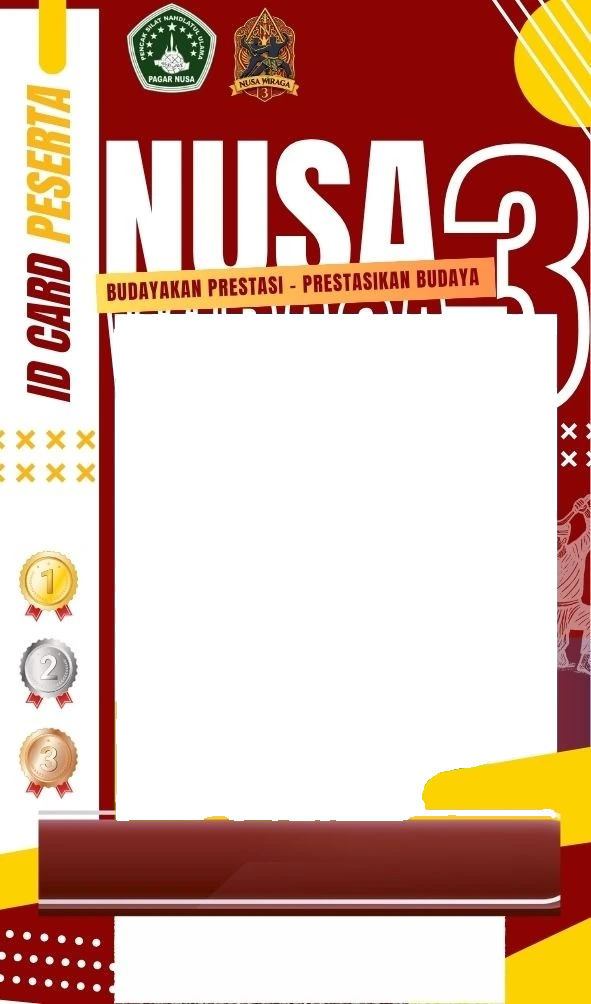
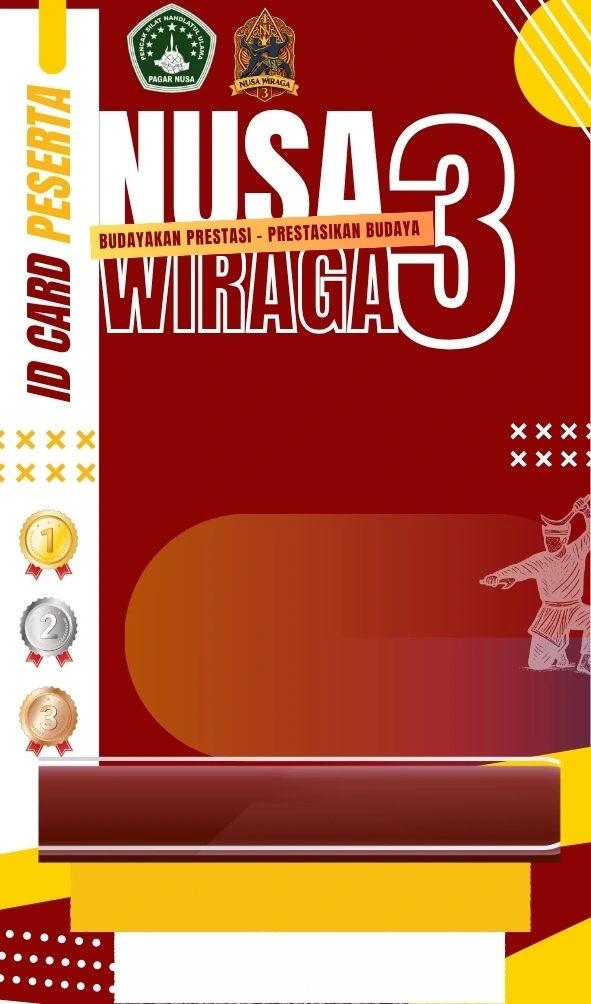
Switch the ID card to the new template with a kelas/kategori line
The committee's new template has no photo frame and adds a yellow
KELAS/KATEGORI bar between NAMA and KONTINGEN. That line shows the
weight class for a Tanding participant and the category for everyone
else (kelasAtauKategori).

The cut-out person now stands straight on the template in the same spot
as before, clipped at the top edge of the NAMA bar so the bottom of the
pas foto stays hidden. Where a photo reaches its own top or side edge,
that edge is faded so it does not leave a hard line on the red
background. latar.webp, the old template's sky scene, is no longer
needed.

The labels in the new template use a condensed face, so the card text
is now set in Oswald, which also fits longer names. Long names wrap to
two lines before they get too small to read.

diff --git a/frontend/src/lib/idCard.js b/frontend/src/lib/idCard.js
@@ -1,13 +1,12 @@
-// ID card peserta, digambar di browser dari template panitia.
+// ID card peserta, digambar di browser admin dari template panitia.
 //
-// Template (public/idcard/template.webp) sudah dibersihkan dari tulisan
-// contoh "NAMA"/"KONTINGEN", dan pemandangan contoh di jendela fotonya dibuat
-// transparan. Urutan lapisannya:
-//   1. latar.webp — pemandangan contoh (langit, awan, bukit) dari template
-//   2. orangnya saja, latar pas fotonya dibuang (lihat hapusLatar.js)
-//   3. template — spanduk kuning kiri-atas dan lengkung kuning kanan-bawah
-//      memang menimpa foto di desain aslinya
-//   4. nama & kontingen
+// Template (public/idcard/template.webp) sudah dibersihkan dari tulisan contoh
+// "NAMA", "KELAS/KATEGORI", dan "KONTINGEN". Urutan lapisannya:
+//   1. template
+//   2. orangnya saja, latar pas fotonya dibuang (lihat hapusLatar.js);
+//      dipotong rata di tepi atas bar NAMA supaya potongan bawah pas foto
+//      tersembunyi di balik bar
+//   3. nama, kelas/kategori, kontingen
 //
 // Semua ukuran di bawah dalam piksel template asli (591 x 1004); kanvas
 // digambar SKALA kali lebih besar supaya teks dan foto tajam saat dicetak.
@@ -15,20 +14,30 @@
 import { hapusLatar } from "@/lib/hapusLatar";
 
 const TEMPLATE_URL = "/idcard/template.webp";
-const LATAR_URL = "/idcard/latar.webp";
 const LEBAR = 591;
 const TINGGI = 1004;
 const SKALA = 2;
 
-// Jendela foto, sampai tepi atas bar NAMA.
+// Tempat foto (sama seperti template sebelumnya). Bawahnya ditutup bar NAMA.
 const FOTO = { x: 113, y: 312, w: 445, h: 509 };
-// Pas foto lebih tinggi daripada jendelanya, jadi ada yang terpotong; lebih
+const BATAS_BAWAH_FOTO = 755; // tepi atas bar NAMA
+// Pas foto lebih tinggi daripada tempatnya, jadi ada yang terpotong; lebih
 // banyak diambil dari bawah supaya kepala tidak terpenggal.
 const FOTO_TITIK_TENGAH_Y = 0.3;
+// Bila orangnya menyentuh tepi pas foto (rambut di atas, bahu di samping),
+// potongannya dilembutkan selebar ini supaya tidak tampak garis lurus di
+// atas latar merah.
+const LEMBUT = 0.05;
 
-const NAMA = { cx: 299, cy: 843, cyDuaBaris: 859, maxW: 460, ukuran: 28, minimal: 17, warna: "#ffffff" };
-const KONTINGEN = { cx: 306, cy: 941, cyDuaBaris: 941, maxW: 360, ukuran: 26, minimal: 15, warna: "#67181c" };
-const HURUF = "Outfit, 'IBM Plex Sans', system-ui, sans-serif";
+const NAMA = { cx: 298, cy: 797, maxW: 470, ukuran: 30, minimal: 23, warna: "#ffffff" };
+const KELAS = { cx: 300, cy: 894, maxW: 420, ukuran: 28, minimal: 19, warna: "#840e00" };
+const KONTINGEN = { cx: 306, cy: 967, maxW: 360, ukuran: 28, minimal: 20, warna: "#790c0d" };
+
+// Tulisan contoh di template memakai huruf tegak rapat; Oswald paling mirip
+// dan memuat nama panjang lebih banyak daripada huruf situs.
+const HURUF_CSS = "https://fonts.googleapis.com/css2?family=Oswald:wght@600&display=swap";
+const HURUF = "Oswald, 'Arial Narrow', sans-serif";
+const BERAT = 600;
 
 const dimuat = {};
 const muatGambar = (url) => {
@@ -46,7 +55,24 @@ const muatGambar = (url) => {
   return dimuat[url];
 };
 
-const font = (ukuran) => `700 ${ukuran * SKALA}px ${HURUF}`;
+let hurufDimuat = null;
+const muatHuruf = () => {
+  if (!hurufDimuat) {
+    if (!document.querySelector(`link[href="${HURUF_CSS}"]`)) {
+      const link = document.createElement("link");
+      link.rel = "stylesheet";
+      link.href = HURUF_CSS;
+      document.head.appendChild(link);
+    }
+    // Gagal dimuat (mis. offline) tidak menggagalkan kartu: huruf cadangan.
+    hurufDimuat = new Promise((r) => setTimeout(r, 50))
+      .then(() => document.fonts?.load(`${BERAT} 30px Oswald`))
+      .catch(() => {});
+  }
+  return hurufDimuat;
+};
+
+const font = (ukuran) => `${BERAT} ${ukuran * SKALA}px ${HURUF}`;
 
 // Bagi teks jadi dua baris di spasi yang membuat keduanya paling seimbang.
 const duaBaris = (teks) => {
@@ -82,47 +108,75 @@ const tulis = (ctx, teks, kotak) => {
     }
   }
   const baris = duaBaris(isi);
-  for (let ukuran = kotak.ukuran - 4; ukuran >= kotak.minimal - 3; ukuran--) {
+  for (let ukuran = kotak.ukuran - 6; ukuran >= kotak.minimal - 4; ukuran--) {
     ctx.font = font(ukuran);
     const muat = baris.every((b) => ctx.measureText(b).width <= maxW);
-    if (muat || ukuran === kotak.minimal - 3) {
-      const jarak = ukuran * 1.1 * SKALA;
-      const tengah = kotak.cyDuaBaris * SKALA;
-      baris.forEach((b, i) => ctx.fillText(b, kotak.cx * SKALA, tengah + (i - 0.5) * jarak, maxW));
+    if (muat || ukuran === kotak.minimal - 4) {
+      const jarak = ukuran * 1.05 * SKALA;
+      baris.forEach((b, i) => ctx.fillText(b, kotak.cx * SKALA, kotak.cy * SKALA + (i - 0.5) * jarak, maxW));
       return;
     }
   }
 };
 
+// Lembutkan tepi atas, kiri, dan kanan foto yang sudah tanpa latar.
+const lembutkanTepi = (sumber) => {
+  const k = document.createElement("canvas");
+  k.width = sumber.width;
+  k.height = sumber.height;
+  const ctx = k.getContext("2d");
+  ctx.drawImage(sumber, 0, 0);
+  ctx.globalCompositeOperation = "destination-in";
+  const lebar = Math.round(Math.min(k.width, k.height) * LEMBUT);
+  const pudar = (x0, y0, x1, y1, rx, ry, rw, rh) => {
+    const g = ctx.createLinearGradient(x0, y0, x1, y1);
+    g.addColorStop(0, "rgba(0,0,0,0)");
+    g.addColorStop(1, "rgba(0,0,0,1)");
+    ctx.fillStyle = g;
+    ctx.fillRect(rx, ry, rw, rh);
+  };
+  pudar(0, 0, 0, lebar, 0, 0, k.width, k.height);                  // atas
+  pudar(0, 0, lebar, 0, 0, 0, k.width, k.height);                  // kiri
+  pudar(k.width, 0, k.width - lebar, 0, 0, 0, k.width, k.height);  // kanan
+  return k;
+};
+
 // `foto` berupa Blob (pas foto asli) atau kanvas (orang tanpa latar).
 const gambarFoto = async (ctx, foto) => {
-  const bitmap = foto instanceof Blob
+  const sumber = foto instanceof Blob
     ? await createImageBitmap(foto).catch(() => { throw new Error("Pas foto tidak bisa dibaca sebagai gambar"); })
-    : foto;
+    : lembutkanTepi(foto);
   const kotak = { x: FOTO.x * SKALA, y: FOTO.y * SKALA, w: FOTO.w * SKALA, h: FOTO.h * SKALA };
   // object-fit: cover
-  const skala = Math.max(kotak.w / bitmap.width, kotak.h / bitmap.height);
-  const w = bitmap.width * skala;
-  const h = bitmap.height * skala;
+  const skala = Math.max(kotak.w / sumber.width, kotak.h / sumber.height);
+  const w = sumber.width * skala;
+  const h = sumber.height * skala;
   const x = kotak.x + (kotak.w - w) / 2;
   const y = kotak.y + (kotak.h - h) * FOTO_TITIK_TENGAH_Y;
   ctx.save();
   ctx.beginPath();
-  ctx.rect(kotak.x, kotak.y, kotak.w, kotak.h);
+  // Foto asli (latar gagal dibuang) tetap dibingkai di tempatnya; orang tanpa
+  // latar boleh melewati tepi atas tempat foto, hanya bawahnya yang dipotong.
+  if (foto instanceof Blob) ctx.rect(kotak.x, kotak.y, kotak.w, BATAS_BAWAH_FOTO * SKALA - kotak.y);
+  else ctx.rect(0, 0, LEBAR * SKALA, BATAS_BAWAH_FOTO * SKALA);
   ctx.clip();
-  ctx.drawImage(bitmap, x, y, w, h);
+  ctx.drawImage(sumber, x, y, w, h);
   ctx.restore();
-  if (bitmap !== foto) bitmap.close?.();
+  sumber.close?.();
 };
+
+/** Baris kelas/kategori: kelas untuk peserta tanding, kategori untuk seni. */
+export const kelasAtauKategori = (reg) =>
+  ((reg?.category || "").includes("Tanding") && reg?.weight_class ? reg.weight_class : reg?.category || "");
 
 /**
  * Gambar satu ID card.
- * @param {{nama: string, kontingen: string, foto: Blob}} peserta
+ * @param {{nama: string, kelas: string, kontingen: string, foto: Blob}} peserta
  * @returns {Promise<{blob: Blob, latarDihapus: boolean}>} JPEG siap
  *   unduh/cetak (1182 x 2008 px). Bila latar foto gagal dibuang (mis. model
  *   tidak bisa diunduh), kartu tetap dibuat dengan foto aslinya.
  */
-export async function buatIdCard({ nama, kontingen, foto }) {
+export async function buatIdCard({ nama, kelas, kontingen, foto }) {
   if (!foto) throw new Error("Pas foto belum ada");
   let orang = foto;
   let latarDihapus = false;
@@ -132,24 +186,16 @@ export async function buatIdCard({ nama, kontingen, foto }) {
   } catch (e) {
     console.warn("Latar foto gagal dibuang, memakai foto asli:", e);
   }
-  const [template, latar] = await Promise.all([
-    muatGambar(TEMPLATE_URL),
-    muatGambar(LATAR_URL),
-    // Huruf Outfit dimuat malas oleh halaman; tanpa menunggu, kanvas memakai
-    // huruf cadangan. Kalau gagal dimuat, tetap lanjut dengan huruf cadangan.
-    document.fonts?.load(font(NAMA.ukuran)).catch(() => {}),
-  ]);
+  const [template] = await Promise.all([muatGambar(TEMPLATE_URL), muatHuruf()]);
   const kanvas = document.createElement("canvas");
   kanvas.width = LEBAR * SKALA;
   kanvas.height = TINGGI * SKALA;
   const ctx = kanvas.getContext("2d");
-  ctx.fillStyle = "#ffffff";
-  ctx.fillRect(0, 0, kanvas.width, kanvas.height);
   ctx.imageSmoothingQuality = "high";
-  ctx.drawImage(latar, 0, 0, kanvas.width, kanvas.height);
-  await gambarFoto(ctx, orang);
   ctx.drawImage(template, 0, 0, kanvas.width, kanvas.height);
+  await gambarFoto(ctx, orang);
   tulis(ctx, nama, NAMA);
+  tulis(ctx, kelas, KELAS);
   tulis(ctx, kontingen, KONTINGEN);
   const blob = await new Promise((resolve, reject) =>
     kanvas.toBlob((b) => (b ? resolve(b) : reject(new Error("Gagal membuat gambar ID card"))), "image/jpeg", 0.92));

diff --git a/frontend/src/pages/AdminDashboard.jsx b/frontend/src/pages/AdminDashboard.jsx
@@ -14,6 +14,7 @@ import { SponsorsManager } from "@/components/admin/SponsorsManager";
 import { BracketManager } from "@/components/admin/BracketManager";
 import { EditRegistrantDialog } from "@/components/admin/EditRegistrantDialog";
 import { IdCardPanel } from "@/components/IdCardPanel";
+import { kelasAtauKategori } from "@/lib/idCard";
 import { compressImage, MAX_DIMENSION_DOC, MAX_DIMENSION_PHOTO } from "@/lib/compressImage";
 import { api, formatApiError, waAthleteLink, setToken } from "@/lib/api";
 import { CATEGORIES, FILE_BASES, fileKindsForCount, kindFor, memberLabel } from "@/lib/registration";
@@ -427,6 +428,7 @@ export default function AdminDashboard() {
                         hilang, panitia mengunduhnya di sini lalu mengirimkannya. */}
                     {filesOf.files?.[kindFor("foto", i)] && (
                       <IdCardPanel key={`${filesOf.id}-${i}`} regNumber={filesOf.reg_number} kontingen={filesOf.contingent_school}
+                        kelas={kelasAtauKategori(filesOf)}
                         testId={`admin-idcard-${i}`}
                         peserta={[{ nama, ambilFoto: async () =>
                           (await api.get(`/admin/files/${filesOf.id}/${kindFor("foto", i)}`, { responseType: "blob" })).data }]} />

diff --git a/frontend/src/components/IdCardPanel.jsx b/frontend/src/components/IdCardPanel.jsx
@@ -9,8 +9,9 @@ import { siapkanHapusLatar } from "@/lib/hapusLatar";
  * sendiri). Satu tombol per anggota.
  *
  * peserta: [{ nama, ambilFoto: () => Promise<Blob> }]
+ * kelas: baris kelas/kategori (lihat kelasAtauKategori di lib/idCard.js)
  */
-export function IdCardPanel({ peserta, kontingen, regNumber, testId = "idcard-panel" }) {
+export function IdCardPanel({ peserta, kelas, kontingen, regNumber, testId = "idcard-panel" }) {
   const [sibuk, setSibuk] = useState(null);
 
   // Model pembuang latar ~25 MB; unduhannya dimulai begitu tombol tampil,
@@ -21,7 +22,7 @@ export function IdCardPanel({ peserta, kontingen, regNumber, testId = "idcard-pa
     setSibuk(i);
     try {
       const foto = await peserta[i].ambilFoto();
-      const { blob, latarDihapus } = await buatIdCard({ nama: peserta[i].nama, kontingen, foto });
+      const { blob, latarDihapus } = await buatIdCard({ nama: peserta[i].nama, kelas, kontingen, foto });
       if (!latarDihapus) {
         toast.warning(`Latar foto ${peserta[i].nama} gagal dihapus, ID card memakai foto asli.`);
       }
